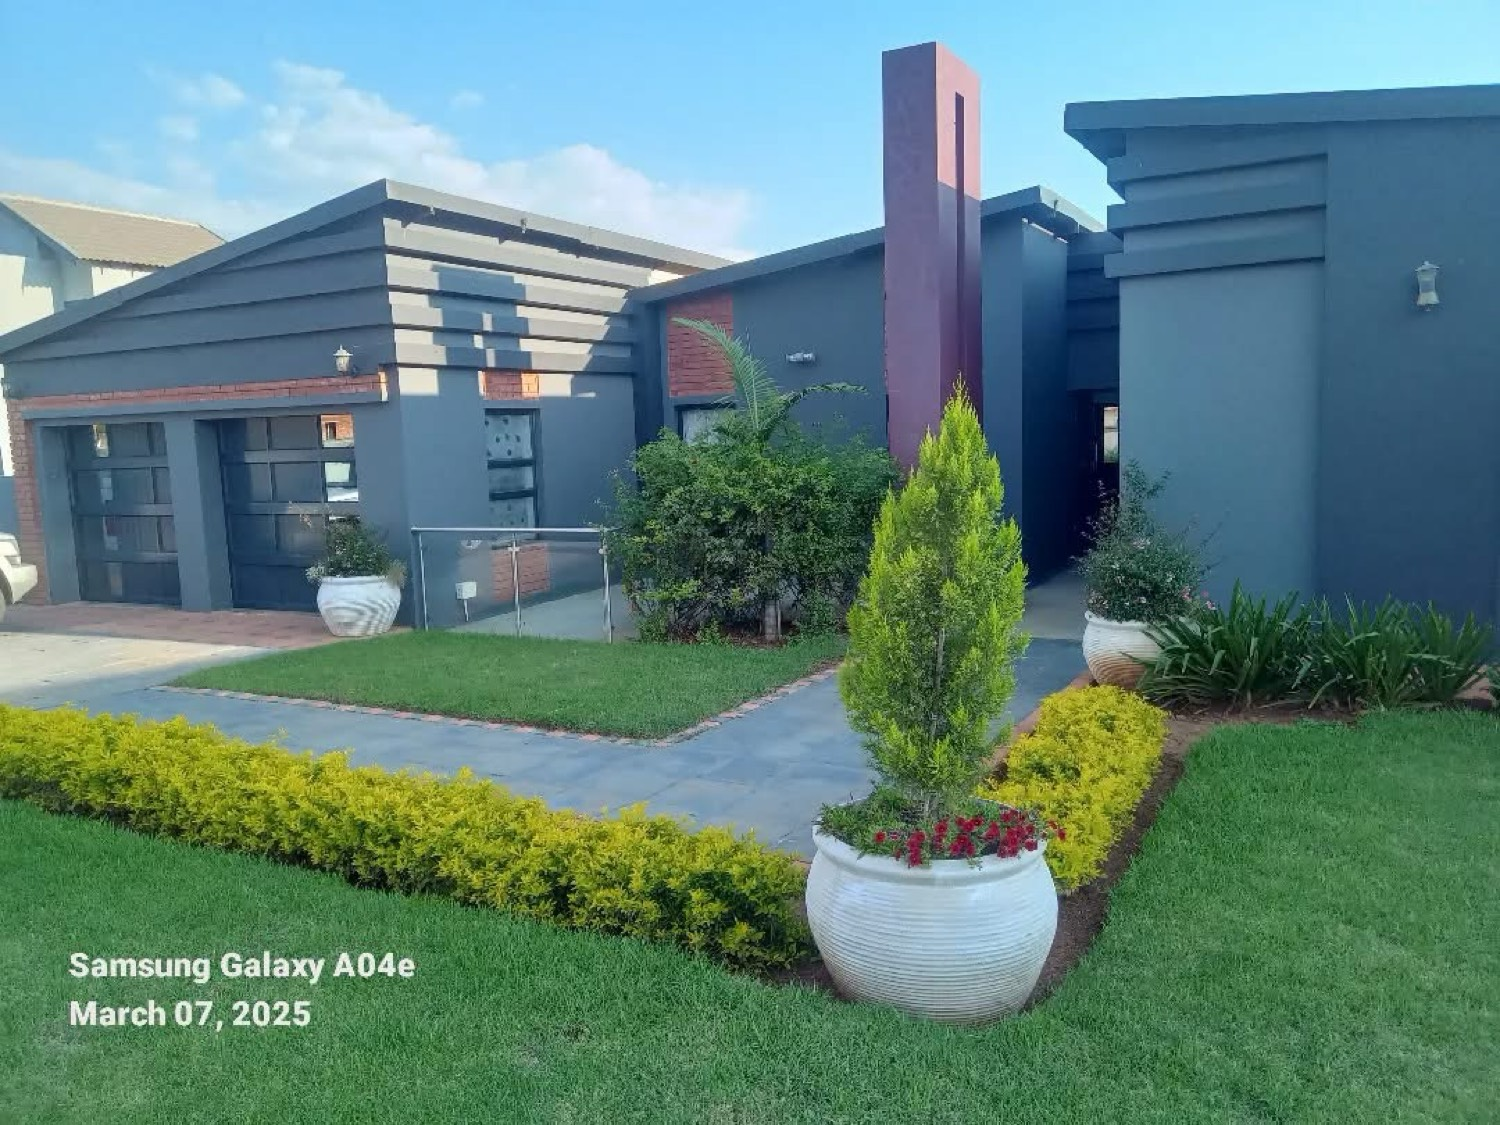
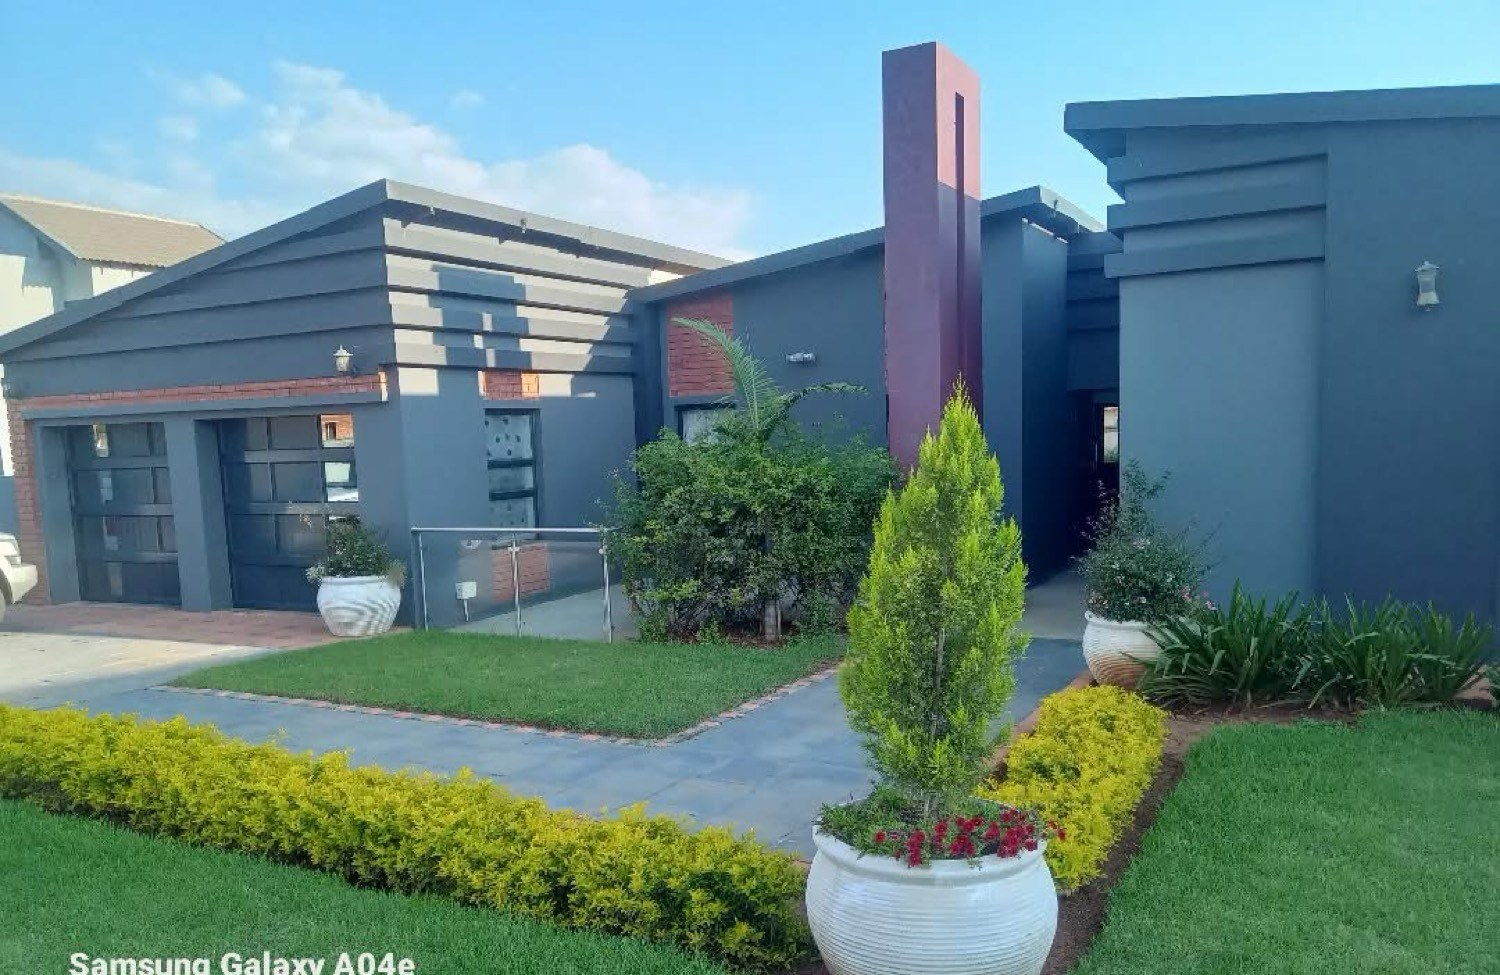
Add a clean left-to-right project slide

diff --git a/motlaitlai/index.html b/motlaitlai/index.html
@@ -45,10 +45,13 @@
     .intro { max-width:48ch; color:var(--muted); margin:12px 0 0; }
     .grid4, .services, .regs, .clients { display:grid; gap:12px; margin-top:28px; }
     .card, .reg, .clients span { background:#fff; border:1px solid var(--line); }
-    .gallery { display:grid; gap:10px; margin-top:28px; }
-    .gallery figure { margin:0; background:#111; position:relative; overflow:hidden; }
-    .gallery img { width:100%; height:210px; object-fit:cover; }
-    .feature img { height:210px; }
+    .reel { margin-top:28px; overflow:hidden; }
+    .reel-track { display:flex; gap:12px; width:max-content; animation:slide 42s linear infinite; }
+    .reel:hover .reel-track { animation-play-state:paused; }
+    .reel figure { margin:0; width:280px; flex:none; background:#111; }
+    .reel img { width:280px; height:190px; object-fit:cover; }
+    .reel figcaption { padding:10px 12px 12px; color:#5f655f; font-size:12px; letter-spacing:.08em; text-transform:uppercase; background:#fff; }
+    @keyframes slide { from { transform:translateX(0); } to { transform:translateX(-50%); } }
     .card div, .reg { padding:18px; }
     .card h3 { font-size:28px; }
     .card p, .reg span { color:var(--muted); margin:6px 0 0; }
@@ -81,8 +84,6 @@
     .dock a { text-align:center; padding:14px; }
     @media (min-width:860px) {
       .links { display:flex; }
-      .gallery { grid-template-columns:1fr 1fr; }
-      .gallery img { height:240px; }
       .about { grid-template-columns:.7fr 1.3fr; }
       .contact { grid-template-columns:.8fr 1.2fr; }
       .dock { display:none; }
@@ -126,19 +127,31 @@
     <section id="work">
       <div class="wrap">
         <div class="eyebrow">Selected work</div>
-        <h2>The pictures they sent.</h2>
-        <p class="intro">Finished houses, 3D plans, civil work and a retail fit-out. The weaker site shots were left out.</p>
-        <div class="gallery">
-          <figure class="feature"><img src="garden.jpg" alt="Completed house and garden" /><figcaption>Handover · March 2025</figcaption></figure>
-          <figure><img src="plans.jpg" alt="3D double-storey design" /><figcaption>3D plans</figcaption></figure>
-          <figure><img src="home.jpg" alt="Completed modern house" /><figcaption>Completed house</figcaption></figure>
-          <figure><img src="render-b.jpg" alt="3D terrace house" /><figcaption>Architectural design</figcaption></figure>
-          <figure><img src="civil.jpg" alt="Excavator on a civil trench" /><figcaption>Heidelberg civil</figcaption></figure>
-          <figure><img src="retail.jpg" alt="Retail counter fit-out" /><figcaption>Retail fit-out</figcaption></figure>
-          <figure><img src="brickhouse.jpg" alt="Brick house under construction" /><figcaption>Structure</figcaption></figure>
-          <figure><img src="bath.jpg" alt="Finished bathroom" /><figcaption>Finishes</figcaption></figure>
-          <figure><img src="rdp.jpg" alt="Heidelberg RDP house" /><figcaption>Heidelberg RDP</figcaption></figure>
-          <figure><img src="bricks.jpg" alt="Blocks laid out on site" /><figcaption>Blocks</figcaption></figure>
+        <h2>From the plans to the finished house.</h2>
+        <p class="intro">A slow pass of the company pictures.</p>
+        <div class="reel" aria-label="Project photographs">
+          <div class="reel-track">
+            <figure><img src="plans.jpg" alt="3D house design" /><figcaption>3D plans</figcaption></figure>
+            <figure><img src="render-b.jpg" alt="Terrace house design" /><figcaption>Design</figcaption></figure>
+            <figure><img src="home.jpg" alt="Completed house" /><figcaption>Completed house</figcaption></figure>
+            <figure><img src="garden.jpg" alt="Finished garden" /><figcaption>Handover</figcaption></figure>
+            <figure><img src="bath.jpg" alt="Finished bathroom" /><figcaption>Finishes</figcaption></figure>
+            <figure><img src="brickhouse.jpg" alt="House structure" /><figcaption>Structure</figcaption></figure>
+            <figure><img src="civil.jpg" alt="Civil trench" /><figcaption>Civil works</figcaption></figure>
+            <figure><img src="rdp.jpg" alt="RDP house" /><figcaption>Heidelberg RDP</figcaption></figure>
+            <figure><img src="bricks.jpg" alt="Blocks on site" /><figcaption>Blocks</figcaption></figure>
+            <figure><img src="retail.jpg" alt="Retail counter" /><figcaption>Retail fit-out</figcaption></figure>
+            <figure><img src="plans.jpg" alt="" /><figcaption>3D plans</figcaption></figure>
+            <figure><img src="render-b.jpg" alt="" /><figcaption>Design</figcaption></figure>
+            <figure><img src="home.jpg" alt="" /><figcaption>Completed house</figcaption></figure>
+            <figure><img src="garden.jpg" alt="" /><figcaption>Handover</figcaption></figure>
+            <figure><img src="bath.jpg" alt="" /><figcaption>Finishes</figcaption></figure>
+            <figure><img src="brickhouse.jpg" alt="" /><figcaption>Structure</figcaption></figure>
+            <figure><img src="civil.jpg" alt="" /><figcaption>Civil works</figcaption></figure>
+            <figure><img src="rdp.jpg" alt="" /><figcaption>Heidelberg RDP</figcaption></figure>
+            <figure><img src="bricks.jpg" alt="" /><figcaption>Blocks</figcaption></figure>
+            <figure><img src="retail.jpg" alt="" /><figcaption>Retail fit-out</figcaption></figure>
+          </div>
         </div>
       </div>
     </section>
